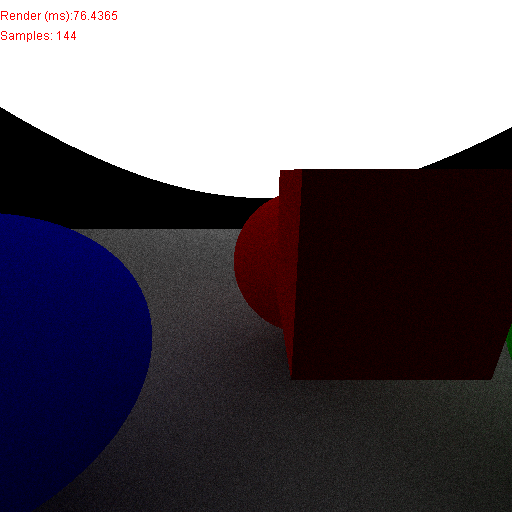
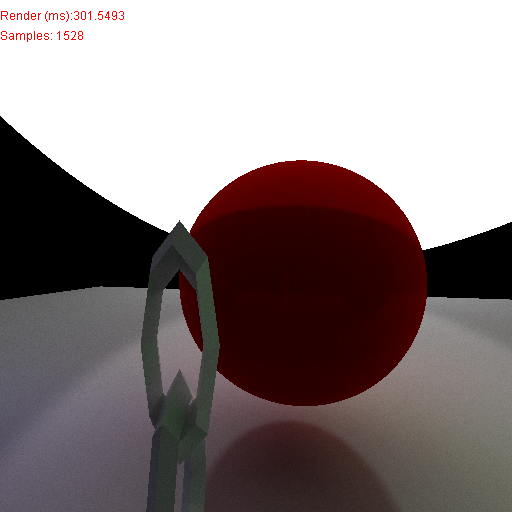
cleaned the material system

diff --git a/Ray.java b/Ray.java
@@ -1,7 +1,6 @@
 
 
 import Math.Vec3;
-import java.awt.Color;
 import java.awt.image.WritableRaster;
 import java.util.Random;
 
@@ -21,22 +20,23 @@ public final class Ray {
 					intersection = localIntersection;
 				}
 			}
+
 			//break if no intersection
 			if (intersection == null) {
 				break;
 			}
 			
-			PhysicalObject collisionObject = intersection.object;
+			PhysicalObject object = intersection.object;
 
 			
 			
 			//find next ray
-			Vec3 specularDirection = direction.sub(intersection.normal.mul(2 * direction.dot(intersection.normal))).normalize();
 			Vec3 diffuseDirection = new Vec3(random.nextDouble() - .5, random.nextDouble() - .5, random.nextDouble() - .5);
 			if (diffuseDirection.dot(intersection.normal) < 0) diffuseDirection = diffuseDirection.mul(-1);
 			Vec3 nextDirection;
-			if (random.nextDouble() < collisionObject.specularityChance){
-				nextDirection = lerp(diffuseDirection, specularDirection, collisionObject.specularity).normalize();
+			if (random.nextDouble() < object.specularityChance){
+				Vec3 specularDirection = direction.sub(intersection.normal.mul(2 * direction.dot(intersection.normal))).normalize();
+				nextDirection = lerp(diffuseDirection, specularDirection, object.specularity).normalize();
 			} else {
 				nextDirection = diffuseDirection.normalize();
 			}
@@ -45,27 +45,19 @@ public final class Ray {
 			
 			
 			//calculate colors
-			Color emittedColor = collisionObject.emissionColor;
-			Color color = collisionObject.reflectionColor;
-
+			// emissionStrengh * emissionColor = emitted light, multiply with ray color to get the intersection of the colors
+			incomingLight[0] += (object.emissionStrength * object.emissionColor[0]) * rayColor[0];
+			incomingLight[1] += (object.emissionStrength * object.emissionColor[1]) * rayColor[1];
+			incomingLight[2] += (object.emissionStrength * object.emissionColor[2]) * rayColor[2];
 			
-			double[] emittedLight = {
-				collisionObject.emissionStrength*emittedColor.getRed()/255.0,
-				collisionObject.emissionStrength*emittedColor.getGreen()/255.0,
-				collisionObject.emissionStrength*emittedColor.getBlue()/255.0,
-			};
-			incomingLight[0] += emittedLight[0] * rayColor[0];
-			incomingLight[1] += emittedLight[1] * rayColor[1];
-			incomingLight[2] += emittedLight[2] * rayColor[2];
+			rayColor[0] *= object.reflectionColor[0];
+			rayColor[1] *= object.reflectionColor[1];
+			rayColor[2] *= object.reflectionColor[2];
 
-			double[] c = {
-				color.getRed() / 255.0,
-				color.getGreen() / 255.0,
-				color.getBlue() / 255.0
-			};
-			rayColor[0] *= c[0];
-			rayColor[1] *= c[1];
-			rayColor[2] *= c[2];
+			if (rayColor[0] < .001 && rayColor[1] < .001 && rayColor[2] < .001){
+			//	System.out.println("low light");
+				break;
+			}
 		}
 		return incomingLight;
 	}

diff --git a/PhysicalObject.java b/PhysicalObject.java
@@ -1,72 +1,25 @@
 
 import Math.Vec3;
-import java.awt.Color;
 import java.awt.image.WritableRaster;
 
 /**
  * An abstract object which represents the Physical parts of an object
  */
 public abstract class PhysicalObject {
-	public final Color reflectionColor;
-	public final Color emissionColor;
+	public final double[] reflectionColor;
+	public final double[] emissionColor;
 	public final double emissionStrength;
 	public final double specularity;
 	public final double transparency;
 	public final double specularityChance;
 
-	public PhysicalObject(Color color, Material material){
-		switch (material){
-			case SOLID -> {
-				this.emissionStrength = 0;
-				this.emissionColor = Color.BLACK;
-
-				this.reflectionColor = color;
-				this.specularity = 0;
-				this.specularityChance = 0;
-				
-				this.transparency = 0;
-			}
-			case SHINY_SOLID -> {
-				this.emissionStrength = 0;
-				this.emissionColor = Color.BLACK;
-				this.reflectionColor = color;
-				this.specularity = 1;
-				this.transparency = 0;
-				this.specularityChance = 1;
-			}
-			case LIGHT -> {
-				this.emissionStrength = 1;
-				this.emissionColor = color;
-				this.reflectionColor = Color.BLACK;
-				this.specularity = 0;
-				this.transparency = 0;
-				this.specularityChance = 0;
-			}
-			case MIRROR -> {
-				this.emissionStrength = 0;
-				this.emissionColor = Color.BLACK;
-				this.reflectionColor = Color.WHITE;
-				this.specularity = 1;
-				this.transparency = 0;
-				this.specularityChance = 1;
-			}
-			case GLASS -> {
-				this.emissionStrength = 0;
-				this.emissionColor = Color.BLACK;
-				this.reflectionColor = color;
-				this.specularity = 0;
-				this.transparency = 1;
-				this.specularityChance = 0;
-			}
-			case null -> {
-				this.emissionStrength = 0;
-				this.emissionColor = Color.BLACK;
-				this.reflectionColor = Color.WHITE;
-				this.specularity = 0;
-				this.transparency = 0;
-				this.specularityChance = 0;
-			}
-		}
+	public PhysicalObject(Material material){
+		this.reflectionColor = new double[] {material.reflectionColor.getRed()/255.0, material.reflectionColor.getGreen()/255.0, material.reflectionColor.getBlue()/255.0};
+		this.emissionColor =new double[] {material.emissionColor.getRed()/255.0, material.emissionColor.getGreen()/255.0, material.emissionColor.getBlue()/255.0};
+		this.emissionStrength = material.emissionStrength;
+		this.specularity = material.specularity;
+		this.transparency = material.transparency;
+		this.specularityChance = material.specularityChance;
 	}
 	public abstract Intersection getIntersection(Vec3 origin, Vec3 direction);
 	public abstract void render(WritableRaster raster, double focalLength, int cx, int cy, double[][] zBuffer, Transform cam);

diff --git a/Mesh.java b/Mesh.java
@@ -15,17 +15,17 @@ import java.util.List;
 public class Mesh extends PhysicalObject{
 	public final BVH bvh;
 	public final Triangle[] triangles;
-	public Mesh(Triangle[] triangles, BVH bounds, Color color, Material material){
-		super(color, material);
+	public Mesh(Triangle[] triangles, BVH bounds, Material material){
+		super(material);
 		this.triangles = triangles;
 		this.bvh = bounds;
 	}
-	public Mesh(List<Triangle> triangles, Color color, Material material){
-		super(color, material);
+	public Mesh(List<Triangle> triangles, Material material){
+		super(material);
 		this.triangles = triangles.toArray(Triangle[]::new);
 		this.bvh = new BVH(triangles);
 	}
-	public static Mesh rectangle(double x, double y, double z, double width, Color color, Material material){
+	public static Mesh rectangle(double x, double y, double z, double width, Material material){
 		double radius = width/2;
 		List<Triangle> tris = List.of(
 			new Triangle(
@@ -39,7 +39,7 @@ public class Mesh extends PhysicalObject{
 				new Vec3(x+radius, y, z-radius)
 			)
 		);
-		return new Mesh(tris, color, material);
+		return new Mesh(tris, material);
 	}
 	//prolly too many overloads
 	public static Mesh loadObj(String filename){
@@ -100,7 +100,7 @@ public class Mesh extends PhysicalObject{
 			}
 		} catch (IOException e){
 			System.out.println("Failed to load");
-			return new Mesh(new ArrayList<>(), Color.black, null);
+			return new Mesh(new ArrayList<>(), Material.SOLID);
 		}
 		System.out.println("  Loaded "+indexedTriangles.size()+" triangles");
 		System.out.println("  Loaded "+points.size()+" points");
@@ -127,7 +127,7 @@ public class Mesh extends PhysicalObject{
 		}
 		
 		List<Triangle> triangles = indexedTriangles.stream().map((IndexedTriangle itri) -> new Triangle(itri.i1, itri.i2, itri.i3, points)).toList();
-		return new Mesh(triangles, color, material);
+		return new Mesh(triangles, material);
 	}
 	@Override
 	public void render(WritableRaster raster, double focalLength, int cx, int cy, double[][] zBuffer, Transform cam){

diff --git a/Material.java b/Material.java
@@ -1,7 +1,36 @@
-public enum Material {
-	SOLID,
-	LIGHT,
-	MIRROR,
-	GLASS,
-	SHINY_SOLID
+
+import java.awt.Color;
+/**
+ * fake enums
+ */
+public class Material {
+	public final Color reflectionColor;
+	public final Color emissionColor;
+	public final double emissionStrength;
+	public final double specularity;
+	public final double transparency;
+	public final double specularityChance;
+	public static final Material SOLID  = new Material(0, Color.BLACK, Color.WHITE, .9, .1, 0);
+	public static final Material LIGHT  = new Material(1, Color.WHITE, Color.BLACK, 0, 0, 0);
+	public static final Material MIRROR = new Material(0, Color.BLACK, Color.WHITE, 1, 1, 0);
+	public static final Material GLASS  = new Material(0, Color.BLACK, Color.WHITE, 0, 0, 1);
+	public Material(double emissionStrength, Color emissionColor, Color reflectionColor, double specularity, double specularityChance, double transparency){
+		this.emissionStrength = emissionStrength;
+		this.emissionColor = emissionColor;
+
+		this.reflectionColor = reflectionColor;
+		this.specularity = specularity;
+		this.specularityChance = specularityChance;
+
+		this.transparency = transparency;
+	}
+	public static Material solid(Color color){
+		return new Material(0, Color.BLACK, color, .9, .1, 0);
+	}
+	public static Material light(Color color){
+		return new Material(1, color, Color.BLACK, 0, 0, 0);
+	}
+	public static Material glass(Color color){
+		return new Material(0, Color.BLACK, color, 0, 0, 1);
+	}
 }

diff --git a/Sphere.java b/Sphere.java
@@ -1,16 +1,12 @@
 
 import Math.Vec3;
-import java.awt.Color;
 import java.awt.image.WritableRaster;
 
 public class Sphere extends PhysicalObject{
 	public final Vec3 point;
 	public final double radius;
-	public Sphere(Vec3 p, double radius, Material material){
-		this(p, radius, new Color((int)(Math.random()*16777216)), material);
-	}
-	public Sphere(Vec3 point, double radius, Color color, Material material){
-		super(color, material);
+	public Sphere(Vec3 point, double radius, Material material){
+		super(material);
 		this.point = point;
 		this.radius = radius;
 	}
@@ -30,15 +26,11 @@ public class Sphere extends PhysicalObject{
 		int maxX = Math.min(zBuffer.length - 1, screenX+projectedRadius);
 		int minY = Math.max(0, screenY-projectedRadius);
 		int maxY = Math.min(zBuffer[0].length - 1, screenY+projectedRadius);
-		Color color = new Color(
-			this.reflectionColor.getRed()+emissionColor.getRed(),
-			this.reflectionColor.getGreen()+emissionColor.getGreen(),
-			this.reflectionColor.getBlue()+emissionColor.getBlue()
-		);
+		
 		int[] rgb = {
-			color.getRed(),
-			color.getGreen(),
-			color.getBlue(),
+			(int) (255 * this.reflectionColor[0]+emissionColor[0]),
+			(int) (255 * this.reflectionColor[1]+emissionColor[1]),
+			(int) (255 * this.reflectionColor[2]+emissionColor[2]),
 			255
 		};
 		

diff --git a/Main.java b/Main.java
@@ -8,7 +8,7 @@ import java.util.concurrent.locks.LockSupport;
 
 public class Main {
 	public static void main(String[] args){
-		String model = "cube";
+		String model = "chain";
 		double fps = 0;
 		int size = 512;
 		if (args.length > 0){
@@ -18,19 +18,18 @@ public class Main {
 
 
 		Environment env = new Environment();
-		env.add(new RectangularPrism(0, 1, 0, 1, 1, 1, Color.red, Material.SOLID, 0));
 		
-		//env.add(Mesh.loadObj(model));
+		env.add(Mesh.loadObj(model));
 
 		// sun
-		env.add(new Sphere(new Vec3(0, 20, 15), 20, Color.WHITE, Material.LIGHT));
+		env.add(new Sphere(new Vec3(0, 20, 15), 20, Material.LIGHT));
 		
-		env.add(new Sphere(new Vec3(0, .25, 2), 1, Color.RED, Material.SOLID));
-		env.add(new Sphere(new Vec3(2.5, .25, 0), 1, Color.GREEN, Material.SOLID));
-		env.add(new Sphere(new Vec3(-2.5, .25, 0), 1, Color.BLUE, Material.SOLID));
+		env.add(new Sphere(new Vec3(0, .25, 2.5), 1, Material.solid(Color.RED)));
+		env.add(new Sphere(new Vec3(2.5, .25, 0), 1, Material.solid(Color.GREEN)));
+		env.add(new Sphere(new Vec3(-2.5, .25, 0), 1, Material.solid(Color.BLUE)));
 
 		// floor
-		env.add(Mesh.rectangle(0, -1, 0, 20, Color.WHITE, Material.SOLID));
+		env.add(Mesh.rectangle(0, -1, 0, 40, Material.SOLID));
 		
 		
 		runGame(new RaytracedGame(size, size, Math.PI*.5, 1, env), fps);

diff --git a/RectangularPrism.java b/RectangularPrism.java
@@ -1,12 +1,11 @@
 
 import Math.Vec3;
-import java.awt.Color;
 import java.awt.image.WritableRaster;
 
 public final class RectangularPrism extends PhysicalObject{
 	public final double maxX, maxY, maxZ, minX, minY, minZ;
-	public RectangularPrism(double x0, double x1, double y0, double y1, double z0, double z1, Color color, Material material){
-		super(color, material);
+	public RectangularPrism(double x0, double x1, double y0, double y1, double z0, double z1, Material material){
+		super(material);
 		this.maxX = Math.max(x0, x1);
 		this.minX = Math.min(x0, x1);
 		
@@ -16,8 +15,8 @@ public final class RectangularPrism extends PhysicalObject{
 		this.maxZ = Math.max(z0, z1);
 		this.minZ = Math.min(z0, z1);
 	}
-	public RectangularPrism(double x, double y, double z, double width, double height, double length, Color color, Material material, int flag){
-		this(x-width/2, x+width/2, y-height/2, y+height/2, z-length/2, z+length/2, color, material);
+	public RectangularPrism(double x, double y, double z, double width, double height, double length, Material material, int flag){
+		this(x-width/2, x+width/2, y-height/2, y+height/2, z-length/2, z+length/2, material);
 	}
 	@Override
 	public Intersection getIntersection(Vec3 origin, Vec3 direction){
